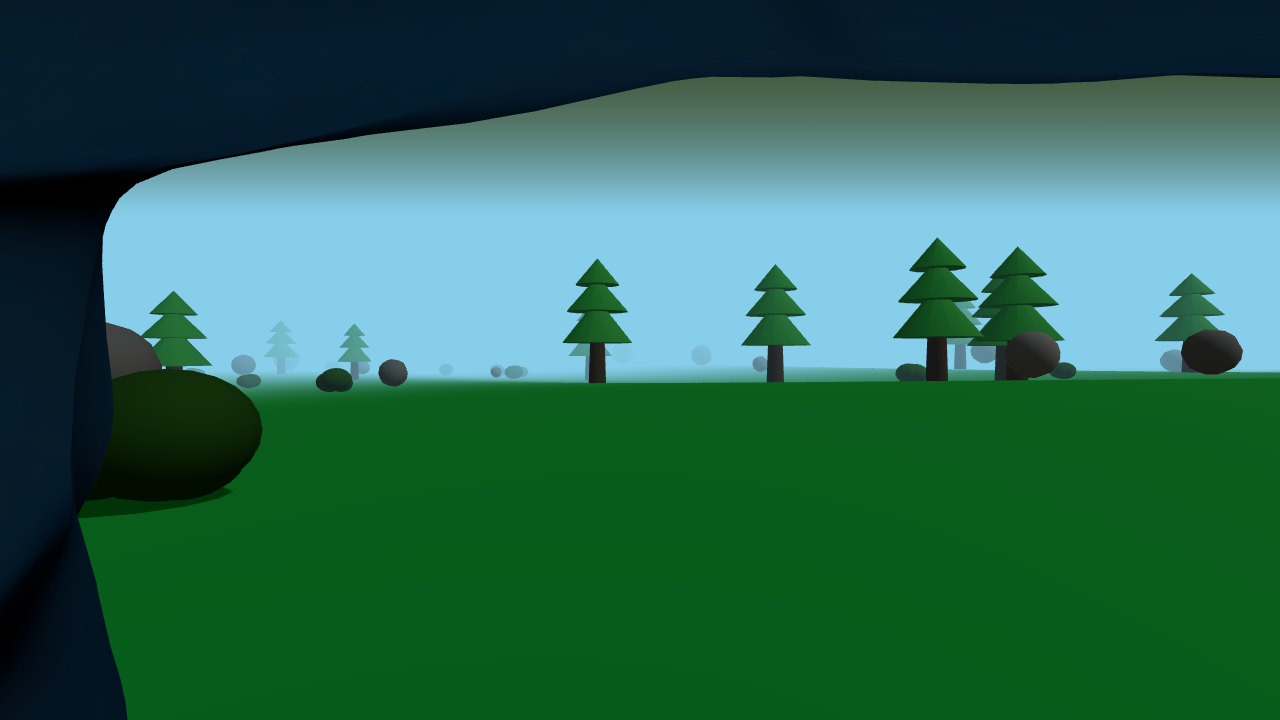
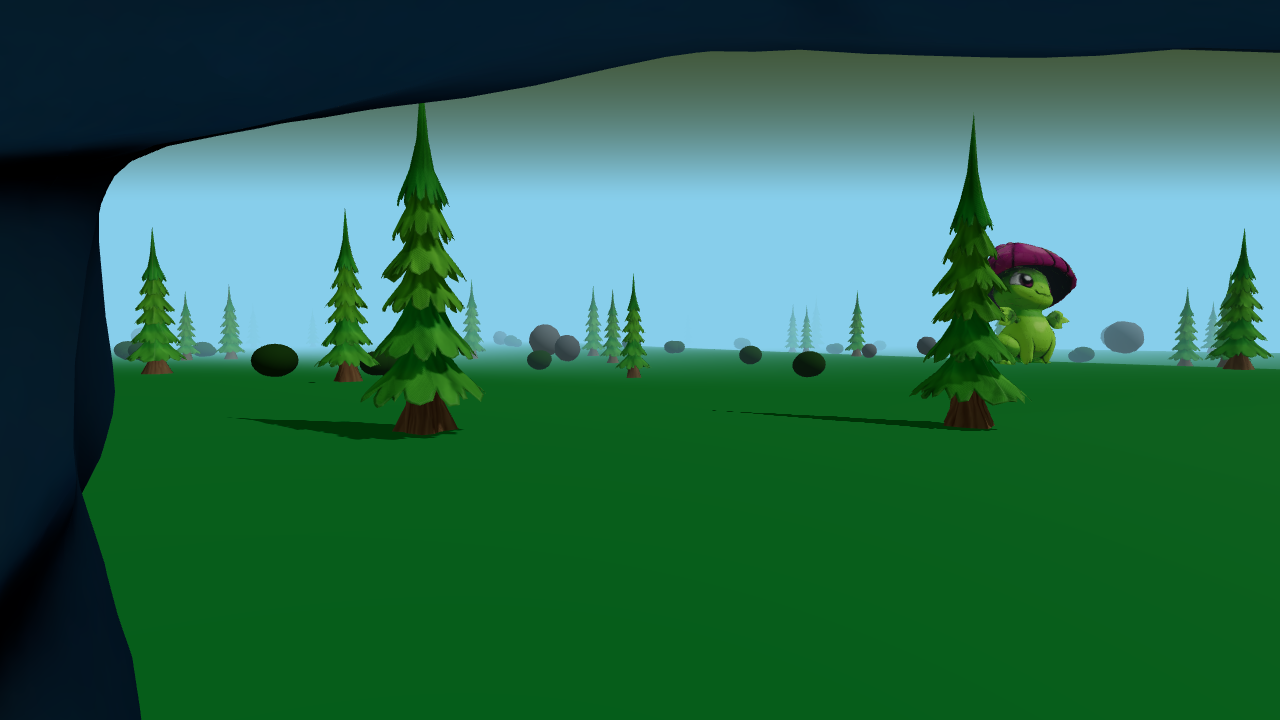
Re-enable 3D pine tree model with auto-scaling for proper sizing

Changed region(s): [[0.0, 0.0611, 1.0, 1.0]]

diff --git a/rpg-game.js b/rpg-game.js
@@ -970,9 +970,32 @@ export class RPGGame {
             zRange = null
         } = options;
 
-        // Use procedural trees for better compatibility and performance
-        // (3D pine tree model disabled to avoid potential rendering issues)
-        const treeModel = null;
+        // Load the pine tree model once
+        let treeModel = null;
+        try {
+            const gltf = await this.loadGLTF('modelli_3D/environment/stylized_pine_tree_tree.glb');
+            treeModel = gltf.scene;
+            
+            // Calculate the bounding box to properly position the tree on the ground
+            treeModel.updateMatrixWorld(true);
+            const boundingBox = new THREE.Box3().setFromObject(treeModel);
+            const modelHeight = boundingBox.max.y - boundingBox.min.y;
+            const modelBottomY = boundingBox.min.y;
+            
+            // Store metadata for proper ground placement
+            treeModel.userData.modelBottomY = modelBottomY;
+            treeModel.userData.modelHeight = modelHeight;
+            
+            // Calculate appropriate base scale based on model size
+            // Target tree height should be around 12-15 units (similar to procedural trees)
+            const targetHeight = 12;
+            const autoScale = modelHeight > 0 ? targetHeight / modelHeight : 1;
+            treeModel.userData.autoScale = autoScale;
+            
+            console.log(`✓ Pine tree model loaded (original height: ${modelHeight.toFixed(2)}, autoScale: ${autoScale.toFixed(3)})`);
+        } catch (error) {
+            console.warn('Could not load pine tree model, using procedural trees:', error);
+        }
 
         for (let i = 0; i < count; i++) {
             let x;
@@ -1010,10 +1033,16 @@ export class RPGGame {
                     }
                 });
                 
-                // Scale the model appropriately (adjust based on actual model size)
-                const baseScale = 3;
+                // Use auto-calculated scale based on model size, with random variation
+                const autoScale = treeModel.userData.autoScale || 1;
                 const randomScale = THREE.MathUtils.randFloat(0.85, 1.35);
-                tree.scale.set(baseScale * randomScale, baseScale * randomScale, baseScale * randomScale);
+                const finalScale = autoScale * randomScale;
+                tree.scale.set(finalScale, finalScale, finalScale);
+                
+                // Calculate ground placement offset based on model's bottom
+                // The modelBottomY might be negative if model origin is above base
+                const modelBottomY = (treeModel.userData.modelBottomY || 0) * finalScale;
+                tree.userData.groundOffset = -modelBottomY;
             } else {
                 // Fallback to procedural trees if model fails to load
                 tree = new THREE.Group();
@@ -1075,7 +1104,10 @@ export class RPGGame {
             
             const groundHeight = this.getGroundHeight ? this.getGroundHeight(x, z) : 0;
             tree.rotation.y = Math.random() * Math.PI * 2;
-            tree.position.set(x, groundHeight + 0.1, z);
+            
+            // Apply ground offset for 3D models (to place at correct height)
+            const groundOffset = tree.userData.groundOffset || 0;
+            tree.position.set(x, groundHeight + groundOffset + 0.1, z);
             this.addToCurrentMap(tree);
         }
     }
